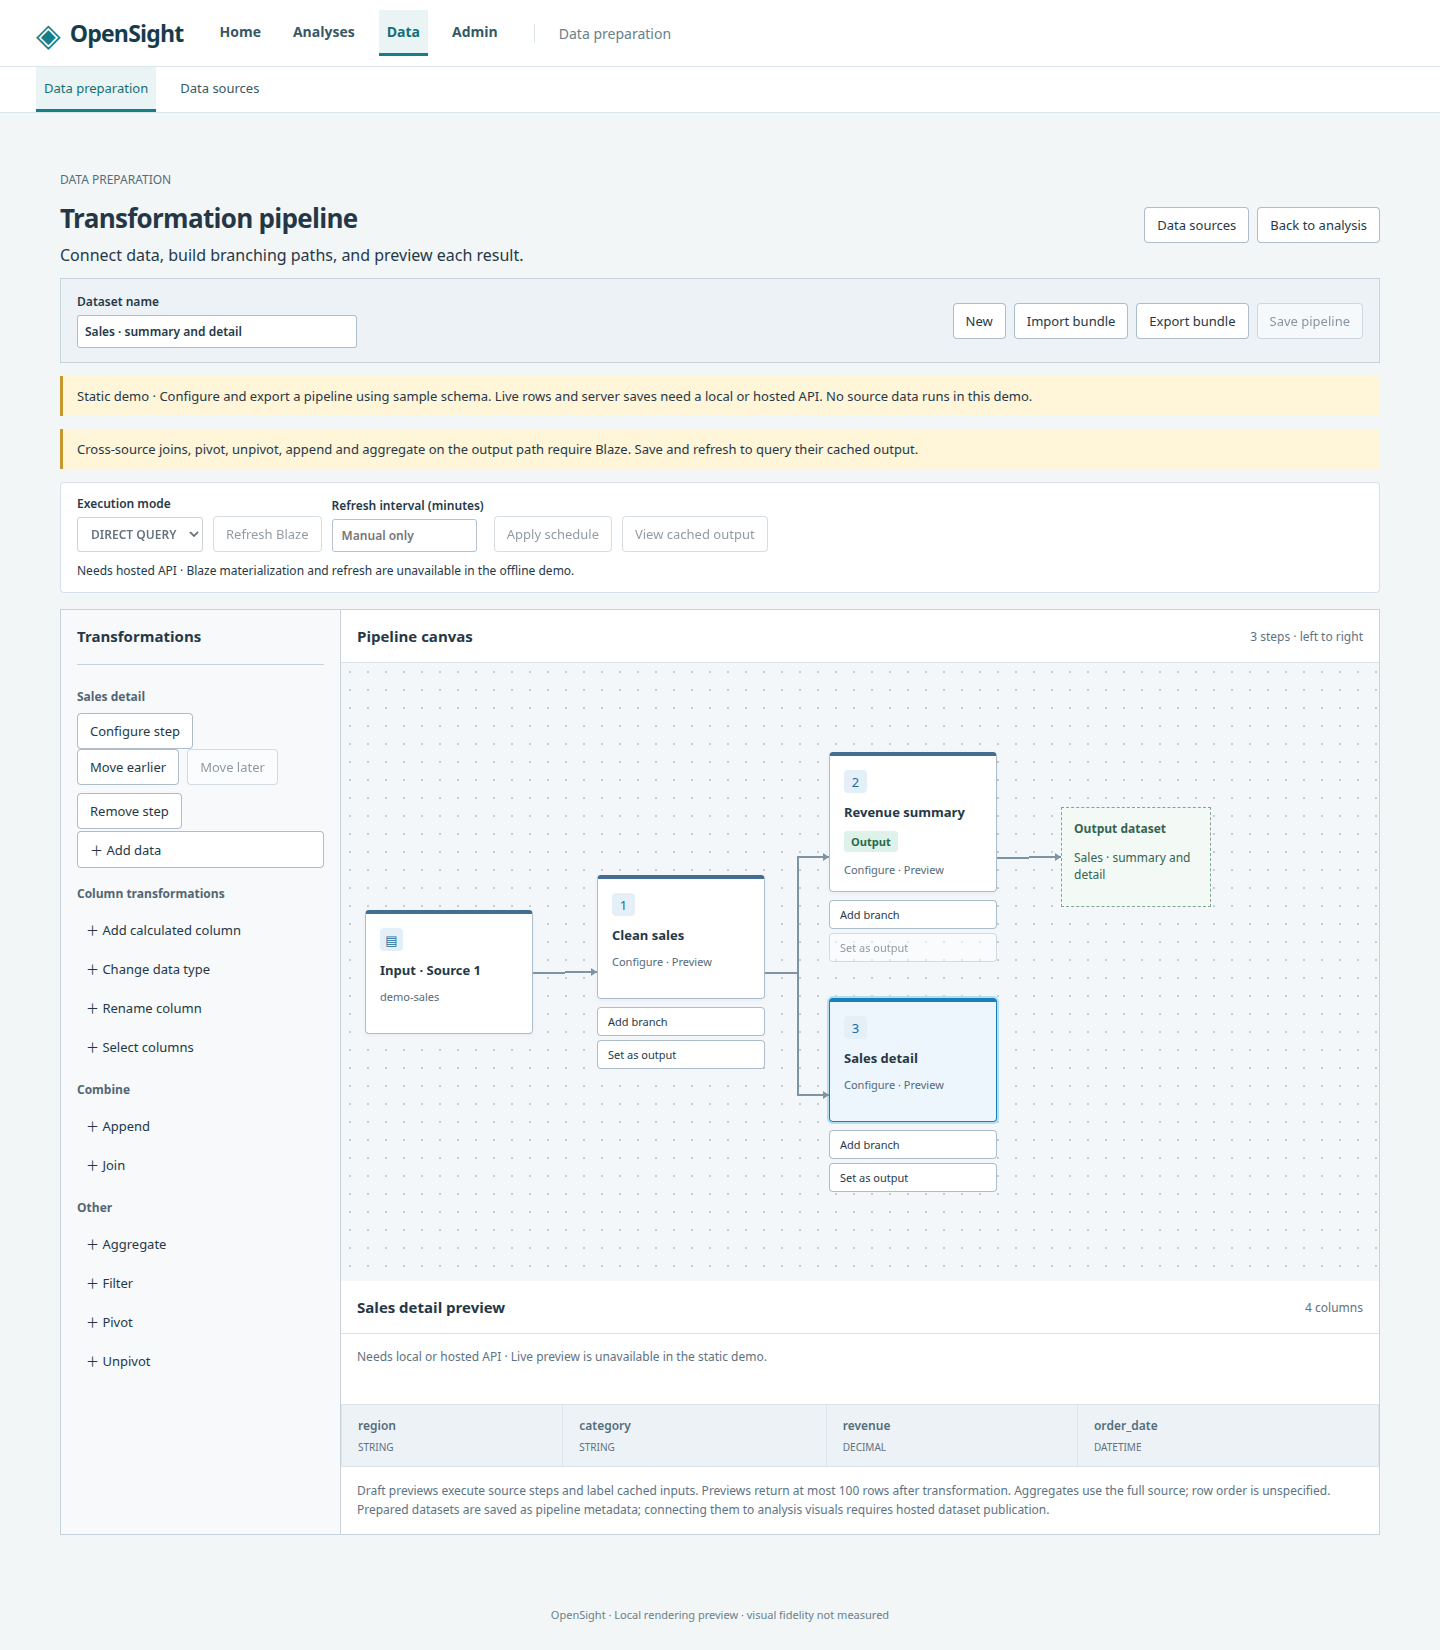
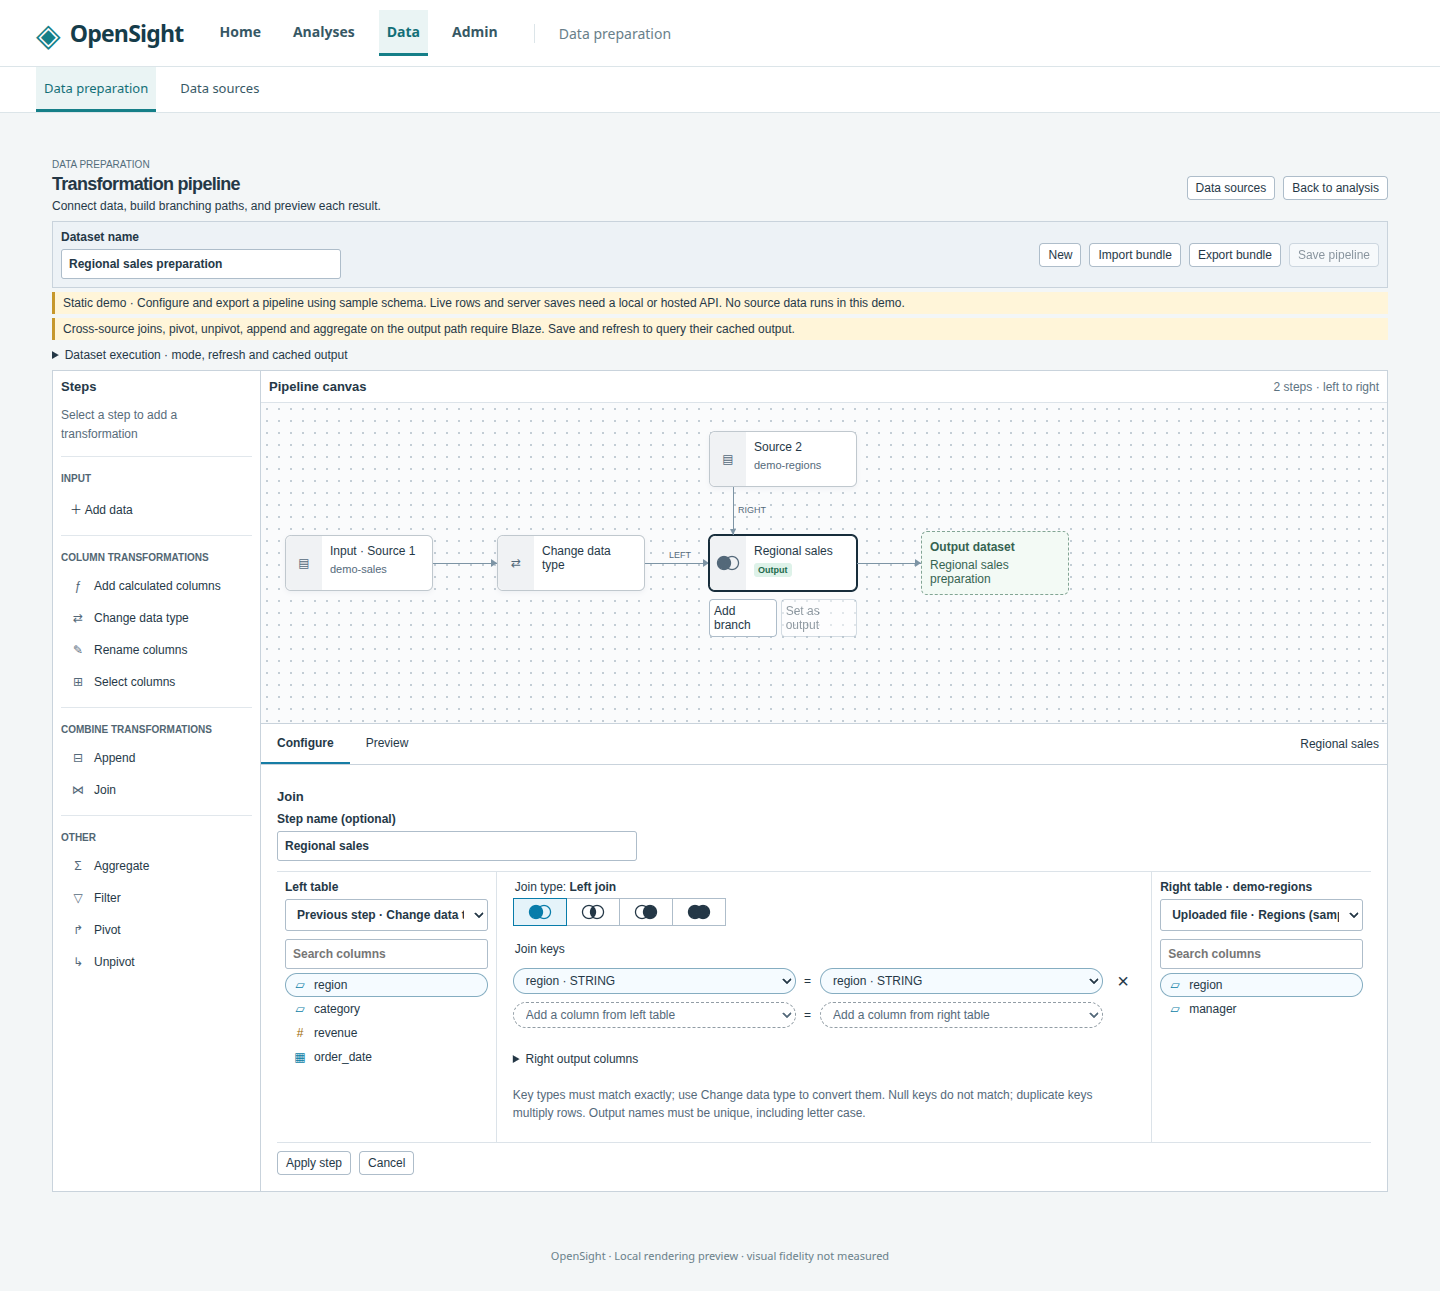
Issue #58: verify responsive layout and refresh demo captures

diff --git a/packages/web/src/style.css b/packages/web/src/style.css
@@ -789,10 +789,10 @@ textarea:focus-visible { outline: 3px solid #e5a046; outline-offset: 3px; }
 .prep-branches > li[data-combine] { padding-block: 80px; }
 .prep-node-actions { position: absolute; top: 100%; left: 0; width: 148px; flex-direction: row; gap: 4px; margin-top: 8px; opacity: 0; pointer-events: none; }
 .prep-step-node:hover > .prep-node-actions, .prep-step-node:focus-within > .prep-node-actions, .prep-step-node:has(.selected) > .prep-node-actions { opacity: 1; pointer-events: auto; }
-.prep-node-actions button { font-size: 10px; padding: 4px; }
+.prep-node-actions button { font-size: 12px; padding: 4px; }
 .prep-node .prep-output-marker { font-size: 9px; padding: 2px 4px; justify-self: start; }
 .prep-secondary-source { position: absolute; bottom: calc(100% + 48px); left: 0; width: 148px; margin: 0; }
-.prep-secondary-source > button { width: 100%; font-size: 11px; }
+.prep-secondary-source > button { width: 100%; font-size: 12px; }
 .prep-right-edge { position: absolute; height: 48px; bottom: 100%; left: 24px; border-left: 1px solid #7d94a5; }
 .prep-right-edge::after { content: ''; position: absolute; bottom: 0; left: -4px; border-top: 6px solid #7d94a5; border-inline: 3px solid transparent; }
 .prep-port-label { font-size: 9px; position: absolute; top: -14px; left: 0; color: #536879; background: #fafbfc; }
@@ -809,7 +809,7 @@ textarea:focus-visible { outline: 3px solid #e5a046; outline-offset: 3px; }
 .prep-join-type button + button { margin-left: -1px; }
 .prep-join-type button[aria-checked="true"] { color: #087caa; background: #e5f3fa; border-color: #087caa; z-index: 1; }
 .prep-join-key { display: grid; grid-template-columns: minmax(0, 1fr) 8px minmax(0, 1fr) 24px; align-items: center; gap: 8px; margin: 8px 0; }
-.data-prep .prep-key-column select { border-radius: 16px; border-color: #85adc1; background: #f5fbff; font-weight: normal; padding: 4px 8px; width: 100%; font-size: 11px; }
+.data-prep .prep-key-column select { border-radius: 16px; border-color: #85adc1; background: #f5fbff; font-weight: normal; padding: 4px 8px; width: 100%; font-size: 12px; }
 .data-prep .prep-key-column.empty select { border-style: dashed; border-color: #929da5; background: #fff; color: #536879; }
 .data-prep .prep-remove-key { border: 0; padding: 0; font-size: 20px; }
 .prep-join-columns { list-style: none; padding: 0; margin: 4px 0; max-height: 300px; overflow: auto; }
@@ -829,7 +829,7 @@ textarea:focus-visible { outline: 3px solid #e5a046; outline-offset: 3px; }
 @media (max-width: 700px) {
   .prep-join-editor { display: flex; flex-direction: column; }
   .prep-join-settings { border: 0; padding: 8px; }
-  .prep-join-table:last-child { order: -1; }
+  .prep-join-settings { order: 1; }
   .prep-join-columns { max-height: 140px; }
   .prep-join-key { gap: 4px; }
 }

diff --git a/docs/issue-58-prep-canvas.md b/docs/issue-58-prep-canvas.md
@@ -1,0 +1,76 @@
+# Issue #58 — Data prep canvas and Steps panel
+
+Implemented from the supplied issue brief on `work/issue-58-prep-canvas`
+(run `codex-issue-58`). The existing preparation contracts in
+`SOLUTION_DESIGN.md` remain unchanged. No dependencies were added.
+See [Dataset preparation](data-prep.md) for configuration and semantics.
+
+The left Steps catalog stays visible while Configure and Preview share the
+bottom workspace. It uses the requested group order and operation names.
+Compact source and transformation nodes show the resolved pipeline, with
+LEFT/RIGHT labels at joins and an explicit output marker. Secondary sources
+appear above their consuming node; self-joins keep distinct instances and
+right-side earlier-step references retain links to the existing result.
+Branch creation, output selection, reordering and invalid-reference repair
+use the existing pipeline model.
+
+The join editor has left/inner/right/full icons, typed searchable column lists,
+paired key selectors and dashed placeholders. Choosing either side of a new
+key creates a real configuration entry; an incomplete pair blocks Apply.
+Right output columns expands the existing prefix and alias controls.
+Tabs retain unapplied edits and support arrow keys and Home/End, as does the
+join-type selector. Dataset execution controls remain in an expandable section.
+The static demo exposes schema configuration and export; live preview and saves
+require a local or hosted API.
+
+## Reference comparison and remaining gaps
+
+Compared the rebuilt synthetic OpenSight captures with the local QuickSight
+new data-prep screenshot and the external “Data Prep new experience” gap notes.
+No reference image or customer content was copied into the repository.
+
+The requested Steps grouping, dotted canvas, compact nodes, join-side labels,
+bottom tabs, join selector and column/key layout are present. Editor controls
+use the Arial/Helvetica stack at 12px, with 13px dock headings. On narrow screens,
+the catalog and canvas scroll within their own regions and the join tables stack
+in left/right order above the keys.
+
+OpenSight retains its navigation, dataset actions, explicit Apply button,
+source-staging action, output marker and API/Blaze explanations. The reference
+has a flatter toolbar and more canvas height relative to its chrome. Secondary
+step results use labeled links, and raw secondary sources connect vertically;
+the reference uses curved links. Zoom/pan controls, Steps search and dragging
+columns are outside this brief; native scrolling and selectable columns are
+available. This is a qualitative screenshot comparison, not measured visual
+fidelity. Append's strict `PREP_SCHEMA_MISMATCH` behavior remains the deliberate
+issue #19 divergence. Follow-up visual refinement stays with the data-prep
+parity plan; no network issue creation or design-file edit was performed under
+the offline/no-design-edit instructions.
+
+## Verification
+
+The focused prep suite passed **28 / failed 0 / skipped 0**. It covers grouped
+steps, tab state, all four join icons, searchable typed columns, incomplete
+composite keys, invalid types and aliases, source instances, branching,
+preview isolation, bundle round trips and append schema failures. A new test
+builds add data → change type → join through UI handlers, verifies the pipeline
+against the existing contract, and executes the result through real DuckDB
+upload staging to verify the prepared rows.
+
+`npm run build:demo --workspace @opensight/web` passed, including strict
+TypeScript checks. The single-file demo was rebuilt again after the final
+responsive CSS adjustment. `capture-prep-canvas.mjs` verifies keyboard tab/radio
+navigation, partial-key refusal, column search, source consumption, draft reload,
+append rejection and connector alignment. It recorded zero page errors and zero
+external HTTP requests. Desktop workspace width and scroll width both measure
+1,334px; the 390px viewport has 390px document scroll width.
+
+The local verification artifacts are in ignored `.opensight/issue-58/`.
+The rebuilt static demo is a local artifact, not a deployed server.
+
+The README data-prep screenshot and hero GIF are refreshed from the final build.
+The maintained `capture-readme-tour.mjs` adaptation of the supplied screenshot
+script now builds a type-change/join flow and opens its Configure panel. The
+207-frame tour was assembled with the documented ffmpeg palette workflow at
+960×600 and 10fps. The external local-only LOOKFEEL_GAP section also records the
+comparison and remaining work.

diff --git a/docs/data-prep.md b/docs/data-prep.md
@@ -2,14 +2,16 @@
 
 The Data preparation view builds a branching transformation pipeline over sources
 from the connector registry. Open it from Data sources → Prepare data, the mode
-picker, or the analysis editor's Data → Prepare data menu. The persistent left **Steps** panel groups Input, Column transformations, Combine
-transformations and Other. The canvas shows resolved left-input paths and one
+picker, or the analysis editor's Data → Prepare data menu. The persistent left
+**Steps** panel groups Input, Column transformations, Combine transformations
+and Other. The canvas shows resolved left-input paths and one
 node per connected or prepared input, with LEFT/RIGHT labels on join connections.
 Secondary source nodes sit above their consuming step; earlier-step right inputs
-remain selectable links to their existing result. Repeated joins show distinct source instances; an earlier-step reference points
-back to that result. Select a node, then use the bottom **Configure** or
+remain selectable links to their existing result. Repeated joins show distinct
+source instances. Select a node, then use the bottom **Configure** or
 **Preview** tab for that stage. Configure step opens the editor; steps can also
-be reordered or removed. Switching tabs retains an unapplied configuration. Downstream schema errors remain visible.
+be reordered or removed. Switching tabs retains an unapplied configuration.
+Downstream schema errors remain visible.
 
 Join configuration shows left/right table column lists with type icons and
 column search, a keyboard-operable left/inner/right/full join selector, and
